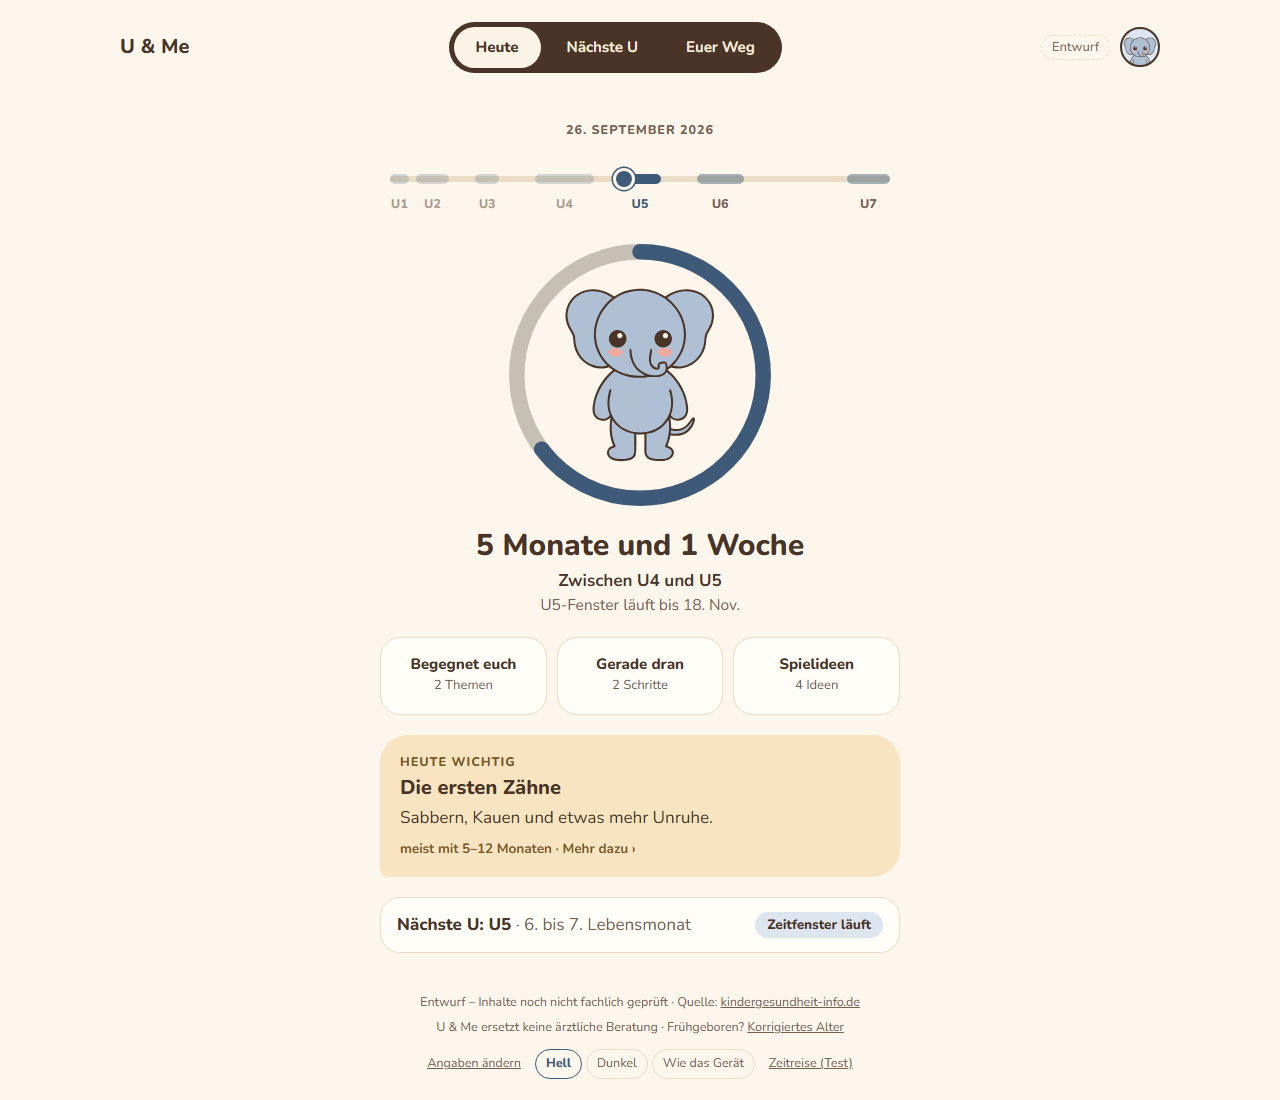
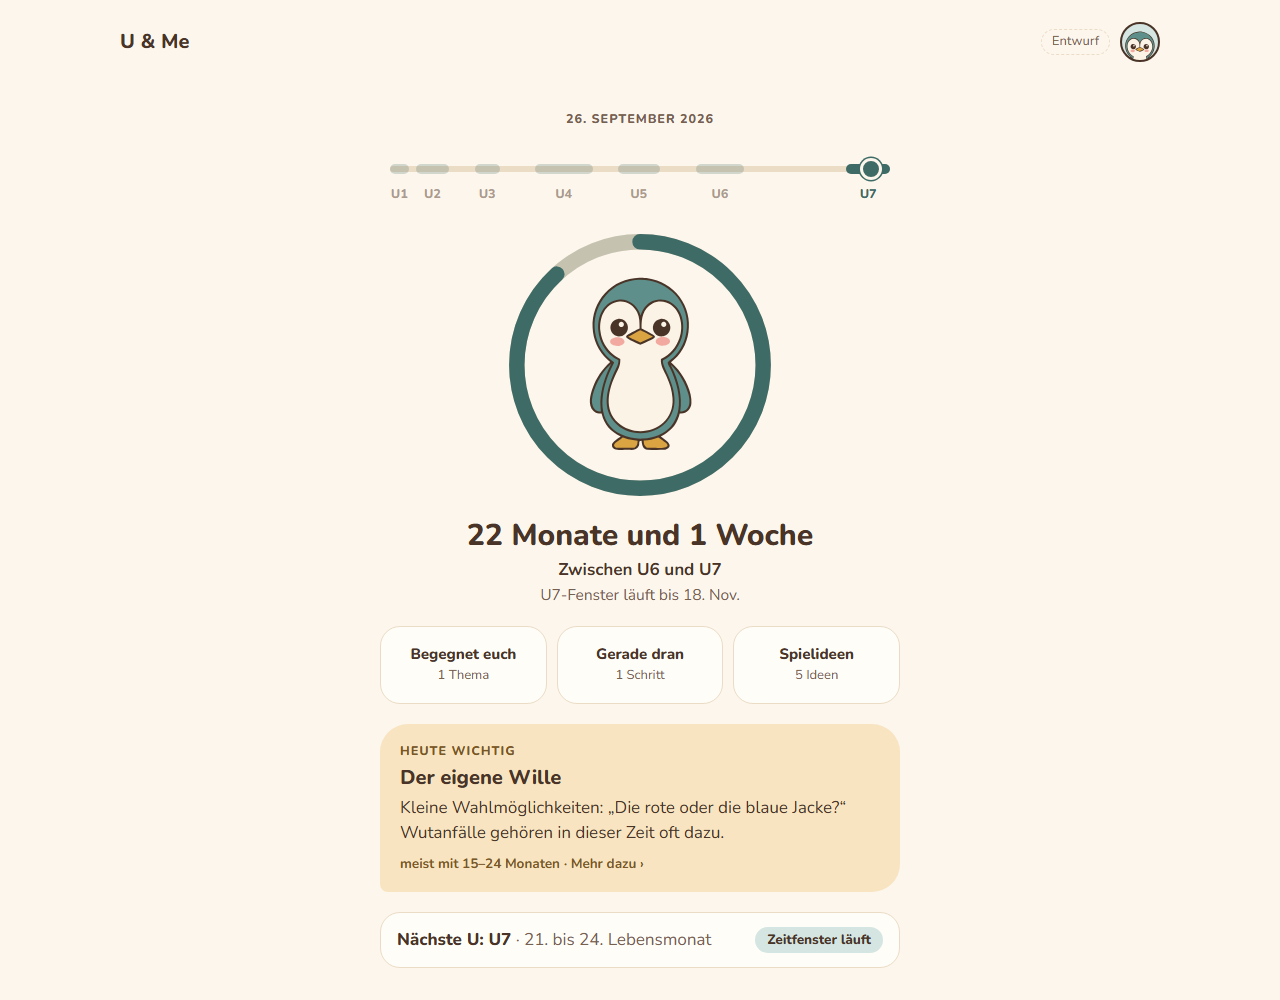
Navigation und 'Euer Weg' entfernt – Startseite als Dashboard
- Keine Navigationsleiste mehr (Desktop oben, Handy unten)
- 'Euer Weg' samt Route und Zeitstrahl-Logik entfernt; /weg leitet auf /
- Nächste U mit '← Heute'; Us über die U-Zeitleiste erreichbar
- Spec angepasst

diff --git a/src/components/Rahmen.tsx b/src/components/Rahmen.tsx
@@ -1,51 +1,26 @@
 import type { ReactNode } from 'react';
-import { NavLink, Outlet, useLocation } from 'react-router-dom';
+import { Link, Outlet } from 'react-router-dom';
 import type { Profil } from '../lib/speicher';
 import { Avatar } from './Avatar';
 import { Fusszeile } from './Fusszeile';
 
-const ziele = [
-  { pfad: '/', text: 'Heute' },
-  { pfad: '/naechste-u', text: 'Nächste U' },
-  { pfad: '/weg', text: 'Euer Weg' },
-];
-
-function Navigation({ className }: { className: string }) {
-  const { pathname } = useLocation();
-  // Detailseiten gehören zu ihrem Bereich: /u/U3 → „Nächste U“, /begegnen usw. → „Heute“
-  const bereichVon: Record<string, string> = { '/begegnen': '/', '/entwicklung': '/', '/spielen': '/' };
-  const zugehoerig = pathname.startsWith('/u/') ? '/naechste-u' : bereichVon[pathname];
-  return (
-    <nav className={className} aria-label="Hauptnavigation">
-      {ziele.map((z) => (
-        <NavLink
-          key={z.pfad}
-          to={z.pfad}
-          end
-          className={({ isActive }) => (isActive || zugehoerig === z.pfad ? 'active' : undefined)}
-        >
-          {z.text}
-        </NavLink>
-      ))}
-    </nav>
-  );
-}
-
-/** Kopfzeile + Inhalt + Navigation (mobil schwebend unten, Desktop oben) */
 type Props = {
   profil: Profil;
   /** z. B. die Zeitreise-Leiste */
   oben?: ReactNode;
-  /** zeigt unten einen Link „Zeitreise starten“ */
+  /** zeigt in der Fußzeile einen Link „Zeitreise (Test)“ */
   onZeitreise?: () => void;
 };
 
+/**
+ * Kopfzeile + Inhalt + Fußzeile. Keine Navigation: Die Startseite ist das Dashboard,
+ * von dem aus alles erreichbar ist; Unterseiten führen mit „← Heute“ zurück.
+ */
 export function Rahmen({ profil, oben, onZeitreise }: Props) {
   return (
     <div className="app">
       <header className="kopfzeile">
-        <NavLink to="/" className="wortmarke">U &amp; Me</NavLink>
-        <Navigation className="nav-oben" />
+        <Link to="/" className="wortmarke">U &amp; Me</Link>
         <div className="kopfzeile-rechts">
           <span className="chip-entwurf">Entwurf</span>
           <Avatar tier={profil.maskottchen} groesse={40} />
@@ -56,7 +31,6 @@ export function Rahmen({ profil, oben, onZeitreise }: Props) {
         <Outlet />
       </main>
       <Fusszeile fruehgeboren={!!profil.errechneterTermin} onZeitreise={onZeitreise} />
-      <Navigation className="nav-unten" />
     </div>
   );
 }

diff --git a/src/styles/app.css b/src/styles/app.css
@@ -43,24 +43,6 @@ img { display: block; }
   white-space: nowrap;
 }
 .kopfzeile-rechts { display: flex; align-items: center; gap: 10px; }
-.kopfzeile-rechts .avatar { display: none; }
-.nav-oben { display: none; }
-
-.nav-unten {
-  position: fixed; z-index: 10;
-  left: 24px; right: 24px; bottom: calc(20px + env(safe-area-inset-bottom));
-  max-width: 440px; margin: 0 auto;
-  background: var(--farbe-nav); border-radius: var(--radius-rund);
-  padding: 6px; display: grid; grid-template-columns: repeat(3, 1fr); gap: 4px;
-  box-shadow: var(--schatten-nav);
-}
-.nav-unten a, .nav-oben a {
-  color: var(--farbe-nav-text); text-decoration: none; text-align: center;
-  font-size: 15px; font-weight: 700; border-radius: var(--radius-rund);
-}
-.nav-unten a { padding: 12px 0; min-height: var(--beruehrflaeche-min); display: grid; place-items: center; }
-.nav-unten a.active, .nav-oben a.active { background: var(--farbe-nav-aktiv); color: var(--farbe-nav-aktiv-text); font-weight: 800; }
-
 .seite { padding: 0 20px; }
 
 /* ---------- Avatar ---------- */
@@ -110,7 +92,7 @@ img { display: block; }
 .app > .seite { flex: 1; width: 100%; }
 .app > .kopfzeile { width: 100%; }
 .fusszeile {
-  width: 100%; max-width: 640px; margin: 0 auto; padding: 40px 20px calc(110px + env(safe-area-inset-bottom));
+  width: 100%; max-width: 640px; margin: 0 auto; padding: 40px 20px calc(24px + env(safe-area-inset-bottom));
   display: flex; flex-direction: column; align-items: center; gap: 6px; text-align: center;
   font-size: 12.5px; line-height: 1.5; color: var(--farbe-text-gedaempft);
 }
@@ -307,10 +289,6 @@ fieldset { border: 0; margin: 0; padding: 0; min-width: 0; }
 @media (min-width: 900px) {
   .kopfzeile { max-width: var(--inhalt-max); margin: 0 auto; padding: 22px 40px 0; }
   .wortmarke { font-size: 20px; }
-  .nav-oben { display: flex; gap: 4px; background: var(--farbe-nav); border-radius: var(--radius-rund); padding: 5px; }
-  .nav-oben a { padding: 9px 22px; }
-  .nav-unten { display: none; }
-  .kopfzeile-rechts .avatar { display: block; }
   .chip-entwurf { font-size: 13px; }
   .seite { max-width: var(--inhalt-max); margin: 0 auto; padding: 36px 40px 0; }
   .fusszeile { padding-bottom: 32px; }

diff --git a/src/lib/inhalte.ts b/src/lib/inhalte.ts
@@ -135,30 +135,3 @@ export function vorherigeUntersuchung(kind: Kind): UTermin | undefined {
   const index = naechste ? termine.findIndex((t) => t.untersuchung.id === naechste.untersuchung.id) : termine.length;
   return index > 0 ? termine[index - 1] : undefined;
 }
-
-// ---- Zeitstrahl ------------------------------------------------------------
-
-export type WegEintrag =
-  | { art: 'u'; datum: Date; termin: UTermin; status: 'vergangen' | 'laeuft' | 'kommend' }
-  | { art: 'etappe'; datum: Date; etappe: Etappe; status: EtappenStatus }
-  | { art: 'heute'; datum: Date };
-
-/** Alle Us und Etappen chronologisch, mit einer „heute“-Markierung */
-export function wegEintraege(kind: Kind): WegEintrag[] {
-  const eintraege: WegEintrag[] = [
-    ...uTermine(kind).map((t) => ({
-      art: 'u' as const,
-      datum: t.beginn,
-      termin: t,
-      status: (t.ende <= kind.jetzt ? 'vergangen' : t.beginn <= kind.jetzt ? 'laeuft' : 'kommend') as
-        | 'vergangen'
-        | 'laeuft'
-        | 'kommend',
-    })),
-    ...etappen.map((e) => ({ art: 'etappe' as const, datum: beginn(kind, e), etappe: e, status: etappenStatus(kind, e) })),
-    { art: 'heute' as const, datum: kind.jetzt },
-  ];
-  // Bei gleichem Datum: U vor Etappe, „heute“ nach allem, was heute beginnt
-  const rang = { u: 0, etappe: 1, heute: 2 };
-  return eintraege.sort((a, b) => a.datum.getTime() - b.datum.getTime() || rang[a.art] - rang[b.art]);
-}

diff --git a/src/App.tsx b/src/App.tsx
@@ -1,6 +1,5 @@
 import { useEffect, useState } from 'react';
 import { Navigate, Route, Routes, useNavigate } from 'react-router-dom';
-import { EuerWeg } from './components/EuerWeg';
 import { Heute } from './components/Heute';
 import { Begegnen, Entwicklung, Spielen } from './components/Unterseiten';
 import { NaechsteU } from './components/NaechsteU';
@@ -72,7 +71,6 @@ export default function App() {
         <Route path="spielen" element={<Spielen kind={kind} />} />
         <Route path="naechste-u" element={<NaechsteU kind={kind} />} />
         <Route path="u/:id" element={<NaechsteU kind={kind} />} />
-        <Route path="weg" element={<EuerWeg kind={kind} />} />
       </Route>
       <Route
         path="angaben"

diff --git a/src/components/NaechsteU.tsx b/src/components/NaechsteU.tsx
@@ -1,5 +1,5 @@
 import { useState, type FormEvent } from 'react';
-import { useParams } from 'react-router-dom';
+import { Link, useParams } from 'react-router-dom';
 import { abstandAlsText, letzterTag, tageZwischen } from '../lib/alter';
 import {
   mitName,
@@ -23,6 +23,7 @@ export function NaechsteU({ kind }: { kind: Kind }) {
 
   return (
     <div className="u-seite">
+      <Link to="/" className="zurueck-link">← Heute</Link>
       <div className="u-kopf">
         <span className="u-kreis-gross">{termin.untersuchung.id}</span>
         <div>

diff --git a/docs/spec.md b/docs/spec.md
@@ -44,7 +44,7 @@ Nebenziel: Das Projekt dient dazu, **das Bauen von Software mit Claude Code zu l
    - **„Als Nächstes“** – die nächsten 3 Etappen
    - **„Spielideen für diese Zeit“** – 3–5 alltagsnahe Spiele pro Phase, die die Entwicklung fördern (ohne Kaufzwang, mit Sicherheitshinweisen). Motto: „Keine Pflicht – was euch beiden Spaß macht, ist richtig.“
    - Worauf achten / wann ärztlich abklären
-3. **„Euer Weg“ (Zeitstrahl)** – alle Us und Etappen chronologisch mit echten Daten; Vergangenes gedimmt, Laufendes hervorgehoben, „Du bist hier“ mit Maskottchen.
+3. **Aufbau als Dashboard** – keine Navigationsleiste. Die Startseite zeigt U-Zeitleiste (U1–U7 anklickbar), Zeitring mit Maskottchen, drei Kacheln (Begegnet euch, Gerade dran, Spielideen), „Heute wichtig“ und die nächste U. Unterseiten führen mit „← Heute“ zurück. Ein eigener Zeitstrahl „Euer Weg“ wurde bewusst verworfen.
 4. **Nächste U vorbereiten** – Zeitfenster der nächsten U, was dort passiert, Beobachtungs-Checkliste, mögliche Fragen an die Kinderärztin. Dazu **„In meinen Kalender eintragen“**: lädt eine .ics-Datei mit dem Zeitfenster herunter (lokal erzeugt, kein Server).
 5. **Hinweis für Frühgeborene** – gut sichtbarer Hinweis, dass bei Frühchen für die Entwicklung das *korrigierte Alter* zählt (Alter ab errechnetem Geburtstermin), die U-Termine aber nach dem tatsächlichen Geburtsdatum laufen. Die App rechnet in v1 selbst noch nicht mit korrigiertem Alter.
 6. **Allgemeiner Hinweis** – die App ersetzt keine ärztliche Beratung; bei Sorgen immer die Kinderarztpraxis fragen.
